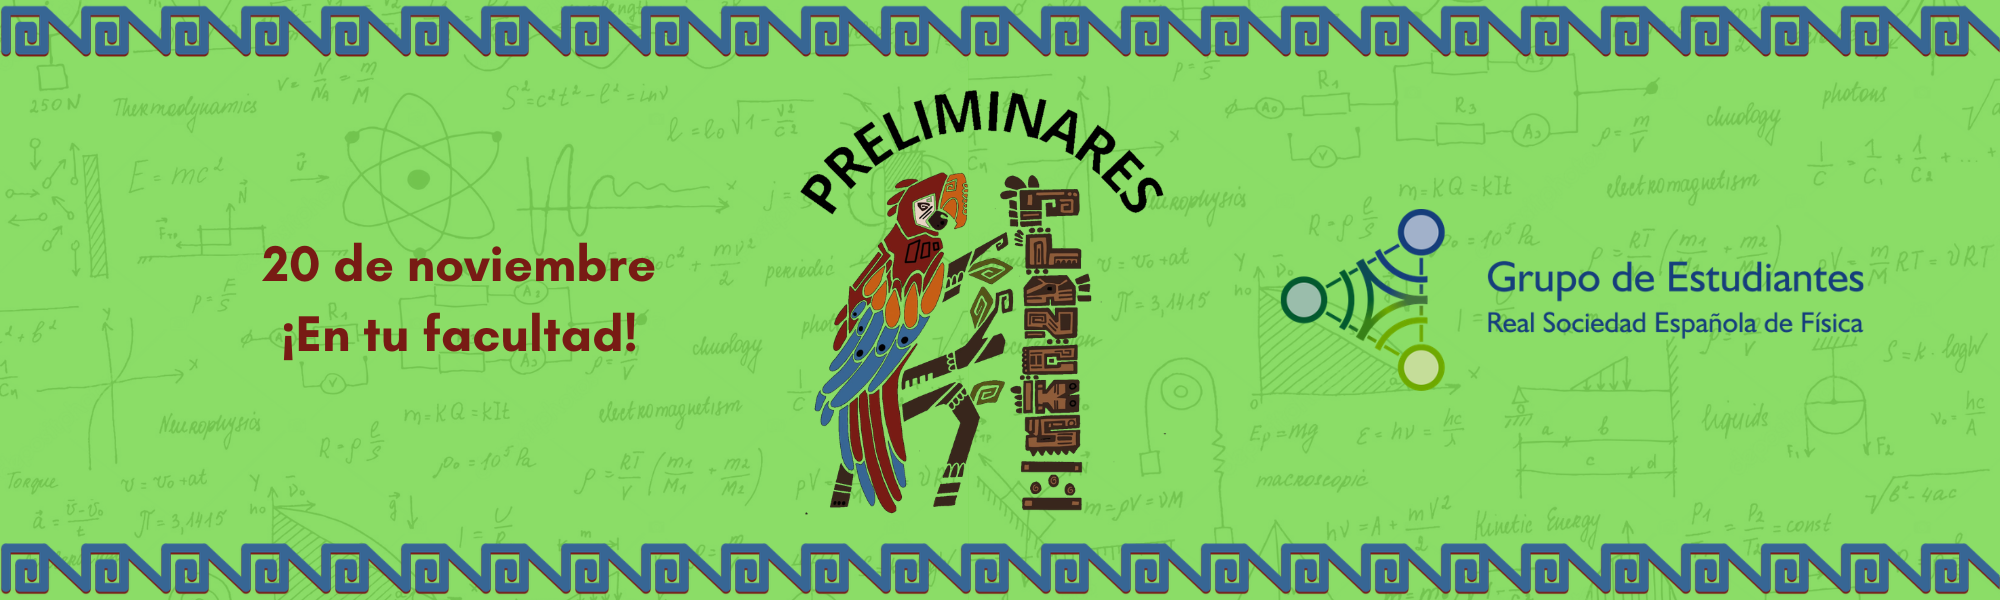
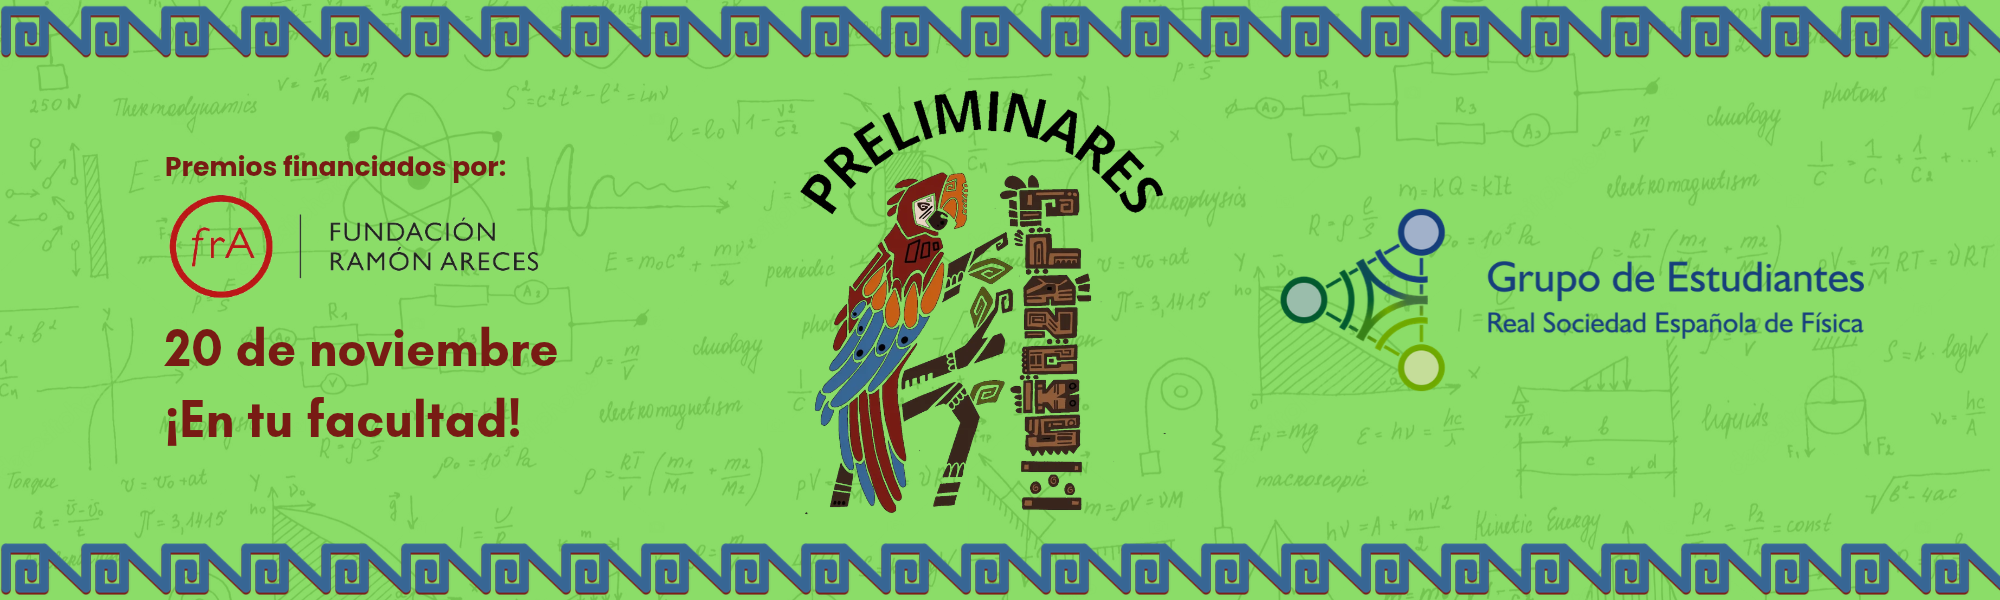
PublicarPremios

diff --git a/PreliminaresPLANCKS/2027/PreliminaresPLANCKS2027.md b/PreliminaresPLANCKS/2027/PreliminaresPLANCKS2027.md
@@ -38,9 +38,9 @@ permalink: /PreliminaresPLANCKS2027/
       </h2>
       <hr> -->
       <!-- INTRODUCCIÓN -->
-      <!-- <p style="text-align: justify; line-height: 1.5;">¿Tienes ganas de pasar un rato divertido resolviendo problemas de física? ¡Ya tenemos aquí la décima edición de las <strong>Preliminares de PLANCKS</strong>! Y este año también ofrecemos <strong>2000€ en PREMIOS</strong> gracias al apoyo de la Fundación Ramón Areces. Así que reúne a un grupo de motivados como tú y sigue explorando la web para saber más. ¡Bienvenid@!</p> -->
-      <p style="text-align: justify; line-height: 1.5;">¿Tienes ganas de pasar un rato divertido resolviendo problemas de física? ¡Ya tenemos aquí la décima edición de las <strong>Preliminares de PLANCKS</strong>! Así que reúne a un grupo de motivados como tú y sigue explorando la web para saber más. ¡Bienvenid@!
-      </p>
+      <p style="text-align: justify; line-height: 1.5;">¿Tienes ganas de pasar un rato divertido resolviendo problemas de física? ¡Ya tenemos aquí la décima edición de las <strong>Preliminares de PLANCKS</strong>! Y este año también ofrecemos <strong>2000€ en PREMIOS</strong> gracias al apoyo de la Fundación Ramón Areces. Así que reúne a un grupo de motivados como tú y sigue explorando la web para saber más. ¡Bienvenid@!</p>
+      <!--p style="text-align: justify; line-height: 1.5;">¿Tienes ganas de pasar un rato divertido resolviendo problemas de física? ¡Ya tenemos aquí la décima edición de las <strong>Preliminares de PLANCKS</strong>! Así que reúne a un grupo de motivados como tú y sigue explorando la web para saber más. ¡Bienvenid@!
+      </p-->
       <!-- BOTONES -->
       <div class="section" style="display: flex; flex-direction: column; justify-content: space-between">
         <div class="center" style="margin: 0 0 20px 0"> <!--Antes: <div class="row center">. Daba problemas. Revertir si es necesario-->
@@ -339,11 +339,11 @@ permalink: /PreliminaresPLANCKS2027/
         <p style="text-align: justify;"><strong>¿Cómo puedo participar en las Preliminares?</strong> Es muy sencillo: si conoces un@s cuant@s amig@s con los que te apetecería pasar un buen rato, resolver problemas que resultan todo un reto e inventarte respuestas disparatadas cuando no sepas por dónde salir, reúne un equipo de hasta cuatro personas y no lo dudes: <a class="prelis27" href="https://forms.gle/oVYyBj3eXPzRYk516" id="inscripcion-button" target="_blank">¡inscríbete!</a> Los equipos deben de estar formados por 3 o 4 personas. Esta primera fase nacional nos permitirá seleccionar a los mejores equipos para que nos representen en la competición internacional, el año pasado se clasificaron cinco equipos a la fase final. </p>   
         <p style="text-align: justify;">Si ya existe una <a class="prelis27" href="https://estudiantes.rsef.es/delegaciones/">delegación del GdeE</a> en tu facultad, se ocuparán ellos de organizar las Prelis. Si no es el caso, es posible que el comité organizador os pida ayuda para encontrar un aula y un/a supervisor/a para poder garantizar una sede de las Preliminares en vuestra ciudad. </p>
         <p style="text-align: justify;"><strong>¿Cómo y cuándo tendrán lugar las Preliminares?</strong> Las Preliminares de PLANCKS 2027 en España se celebrarán el próximo <strong>viernes 20 de noviembre por la tarde</strong>, de forma simultánea en sedes situadas en facultades de física del territorio nacional. La prueba durará 3 horas y tendrá lugar de 16:00 a 19:00 (GMT+1).</p>        
-        <!--p style="text-align: justify;"><strong>Y si la prueba os sale muy bien hay premio por partida doble...</strong></p-->      
-        <p style="text-align: justify;"><strong>Y si la prueba os sale muy bien...</strong></p>        
+        <p style="text-align: justify;"><strong>Y si la prueba os sale muy bien hay premio por partida doble...</strong></p>      
+        <!--p style="text-align: justify;"><strong>Y si la prueba os sale muy bien...</strong></p-->        
         <list class="a">
           <li style="text-align: justify;">Las Preliminares de PLANCKS son la fase de clasificación nacional para PLANCKS en nuestro país. El mejor equipo de las Prelis nos representará en mayo en la final, ¡que se celebra en San Pedro Sula! La inscripción y alojamiento estará cubierta por el Grupo de Estudiantes. ¿Qué aún no sabes lo que es PLANCKS? Encuentra toda la información en <a class="prelis27 modal-trigger" href="#plancks-modal">este enlace</a>.</li>
-          <!--li style="text-align: justify;">¡Y este año tenemos premios para los tres mejores equipos gracias a la financiación de la Fundación Ramón Areces! Lee más en <a href="#premios-modal" class="prelis27 modal-trigger">este enlace</a>.</li--> 
+          <li style="text-align: justify;">¡Y este año tenemos premios para los tres mejores equipos gracias a la financiación de la Fundación Ramón Areces! Lee más en <a href="#premios-modal" class="prelis27 modal-trigger">este enlace</a>.</li> 
         </list> 
         <p style="text-align: justify;"><i class="material-icons" style="padding-right: 8px;">warning</i><strong>Lee las reglas de la competición en <a class="prelis27" href="/PreliminaresPLANCKS/2027/Competition_Rules____Preliminares_de_PLANCKS_2027.pdf" id="reglas-button" target="_blank">este enlace</a>.</strong></p>
       </div>
@@ -368,10 +368,10 @@ permalink: /PreliminaresPLANCKS2027/
     <div class="section" style="padding-left: 30px; padding-right: 30px;">
       <div class="row center">
         <h3 class="justify">Premios</h3>
-        <p style="text-align: justify;">
-          Los clasificados participarán en la fase internacional de PLANCKS en San Pedro Sula, Honduras, con la inscripción y el alojamiento financiado por el Grupo de Estudiantes.
-        </p>
         <!--p style="text-align: justify;">
+          Los clasificados participarán en la fase internacional de PLANCKS en San Pedro Sula, Honduras, con la inscripción y el alojamiento financiado por el Grupo de Estudiantes.
+        </p-->
+        <p style="text-align: justify;">
           Este año contamos con el apoyo y financiación de la <a class="prelis27" href="https://www.fundacionareces.es" id="ramon-areces" target="_blank">Fundación Ramón Areces</a>, que nos permite ofrecer premios a los tres mejores equipos: <strong>900€</strong> para el primer equipo, <strong>600€</strong>  para el segundo y <strong>500€</strong>  para el tercer clasificado. Además, los clasificados participarán en la fase internacional de PLANCKS en Honduras, con la inscripción y el alojamiento financiado por el Grupo de Estudiantes.
         </p>
         <p style="text-align: justify;">
@@ -379,7 +379,7 @@ permalink: /PreliminaresPLANCKS2027/
         </p>
         <p style="text-align: justify;">
           Si aún no sabes de qué estamos hablando, clica en este <a class="modal-trigger" href="#info-modal">este enlace</a>.
-        </p-->
+        </p>
       </div>
     </div>
   </div>

diff --git a/_events/2026-11-20-PreliminaresPLANCKS2027.md b/_events/2026-11-20-PreliminaresPLANCKS2027.md
@@ -20,8 +20,8 @@ comm:
 <!-- HEADER -->
     <img class="materialboxed" width="100%" src="/img/eventos/2027-PrelisPLANCKS/Prelis27_Banner.png">    
 <!-- INTRO -->
-      <p style="text-align: justify;">¿Tienes ganas de pasar un rato divertido resolviendo problemas de física? ¡Ya tenemos aquí la décima edición de las <strong>Preliminares de PLANCKS</strong>!  Así que reúne a un grupo de motivados como tú y sigue explorando la web para saber más. ¡Bienvenid@!</p>
-      <!--p style="text-align: justify;">¿Tienes ganas de pasar un rato divertido resolviendo problemas de física? ¡Ya tenemos aquí la décima edición de las <strong>Preliminares de PLANCKS</strong>! Y este año... como novedad, con <strong>2000€ en PREMIOS</strong> gracias al apoyo de la <strong>Fundación Ramón Areces</strong>. Así que reúne a un grupo de motivados como tú y sigue explorando la web para saber más. ¡Bienvenid@!</p-->
+      <!--p style="text-align: justify;">¿Tienes ganas de pasar un rato divertido resolviendo problemas de física? ¡Ya tenemos aquí la décima edición de las <strong>Preliminares de PLANCKS</strong>!  Así que reúne a un grupo de motivados como tú y sigue explorando la web para saber más. ¡Bienvenid@!</p-->
+      <p style="text-align: justify;">¿Tienes ganas de pasar un rato divertido resolviendo problemas de física? ¡Ya tenemos aquí la décima edición de las <strong>Preliminares de PLANCKS</strong>! Y este año... como novedad, con <strong>2000€ en PREMIOS</strong> gracias al apoyo de la <strong>Fundación Ramón Areces</strong>. Así que reúne a un grupo de motivados como tú y sigue explorando la web para saber más. ¡Bienvenid@!</p>
   </div>      
 <!-- BUTTONS -->
   <div class="row center">
